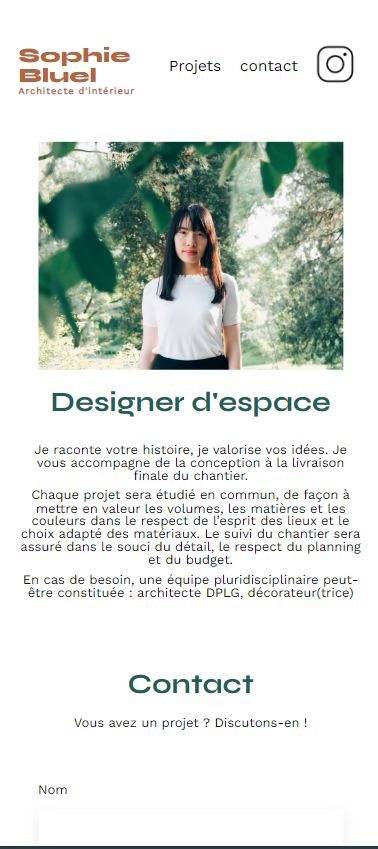
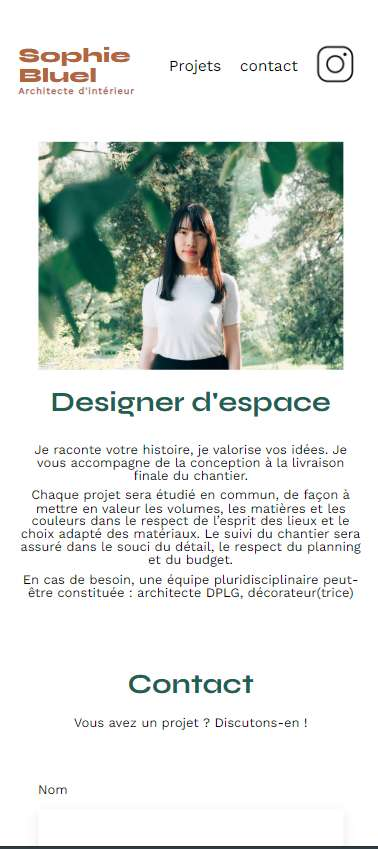
compress img

diff --git a/src/main.jsx b/src/main.jsx
@@ -1,7 +1,7 @@
 import { StrictMode } from 'react'
 import { createRoot } from 'react-dom/client'
 import './Style/index.css'
-import { BrowserRouter as Rooter,Routes , Route } from 'react-router-dom'
+import { HashRouter as Rooter,Routes , Route } from 'react-router-dom'
 import Accueill from './Page/Accueill'
 import Projet from './Page/Projet'
 
@@ -12,6 +12,7 @@ createRoot(document.getElementById('root')).render(
       <Routes>
         <Route path='/portfolio' element={<Accueill />}/>
         <Route path='/portfolio/projet/:id' element={<Projet />} />
+        <Route path='*' element={<Accueill />}/>
       </Routes>
     </Rooter>
   </StrictMode>,

diff --git a/src/component/slide/slide.jsx b/src/component/slide/slide.jsx
@@ -50,7 +50,9 @@ function Slide() {
                     <a href="#Apropos">A-propos</a>
                     <a href="#projet">Projet</a>
                     {/* <span>Fr/En</span> */}
-                    <img src={git} alt="" className="LGgit"/>
+                    <a href="https://github.com/Chhark">
+                        <img src={git} alt="" className="LGgit"/>
+                    </a>
                 </div>) : (
                 <div className="nav">
                     <div className={toggleMenu? "navMobile active" : "navMobile"}>

diff --git a/src/Page/projet.scss b/src/Page/projet.scss
@@ -45,6 +45,11 @@
         box-sizing: border-box;
         border-radius: 20px 20px 0 0;
     }
+    .PprojetImg{
+        width: 90%;
+        height: 90vh;
+        object-fit: cover;
+    }
 }
 @media (max-width : 1024px){
     .PprojetTexte{
@@ -54,5 +59,10 @@
         max-width: 100vw;
         box-sizing: border-box;
         border-radius: 20px 20px 0 0;
+    }
+    .PprojetImg{
+        width: 90%;
+        height: 90vh;
+        object-fit: cover;
     }
 }

diff --git a/src/Page/Projet.jsx b/src/Page/Projet.jsx
@@ -20,7 +20,7 @@ function Projet() {
 
     return(
         <div className="Pprojet">
-            <img src={width > 768 ? projet.image : projet.Mimage } alt="" className="PprojetImg"/>
+            <img src={width > 1024 ? projet.image : projet.Mimage } alt="" className="PprojetImg"/>
             <div className="PprojetTexte">
                 <h1 className="PprojetTitle">{projet.title}</h1>
                 <div className="tagList">

diff --git a/index.html b/index.html
@@ -2,7 +2,7 @@
 <html lang="fr">
   <head>
     <meta charset="UTF-8" />
-    <link rel="icon" type="image/svg+xml" href="/vite.svg" />
+    <link rel="icon" type="image/svg+xml" href="/src/assets/citron.svg" />
     <meta name="viewport" content="width=device-width, initial-scale=1.0" />
     <title>portfolio</title>
   </head>

diff --git a/src/component/A-propos/A-propos.scss b/src/component/A-propos/A-propos.scss
@@ -50,10 +50,11 @@
         margin: 0;
         font-size: 30px;
     }
-    p{
+    p , a{
         margin: 0;
         font-family: "inter", sans-serif;
         font-size: 18px;
+        color: $primaryColor;
     }
 }
 .contact{
